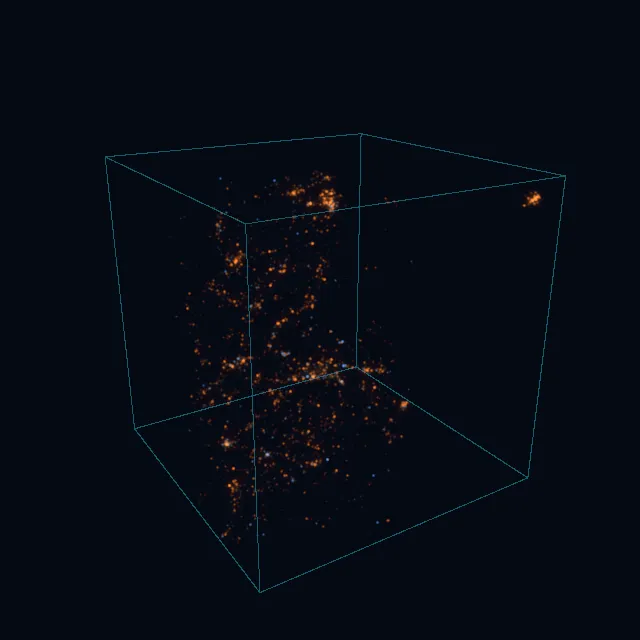
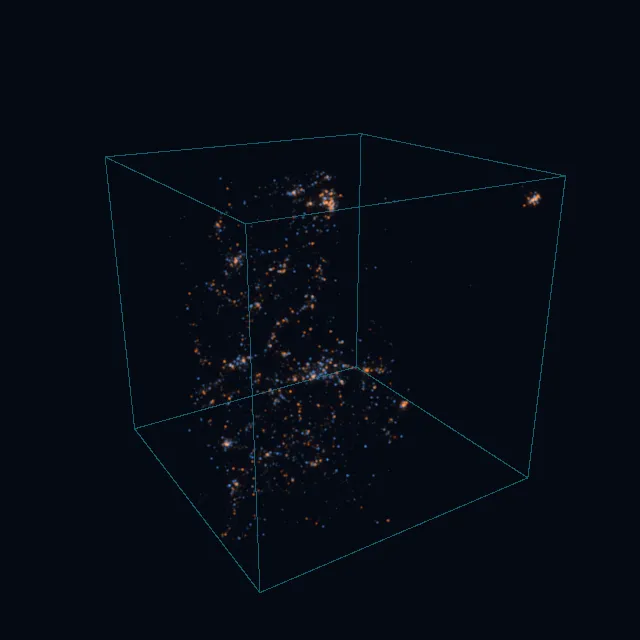
Box fill frames redrawn from a fresh SAGE26 Millennium run (the earlier frames came from a stale output)

diff --git a/visage/wizard/screens.py b/visage/wizard/screens.py
@@ -206,7 +206,7 @@ def _constraint_group(name: str) -> str:
 
 
 # The live view for SAGE26 and LightSAGE: frames of a box and a lightcone
-# filling up, drawn once from real outputs (Millennium box,
+# filling up, drawn once from real outputs (a fresh Millennium box,
 # microUchuu v2 lightcone).
 _LIVE_NOTE = {
     "sage26": "A SAGE26 box (Millennium, z = 0) filling with galaxies as "
